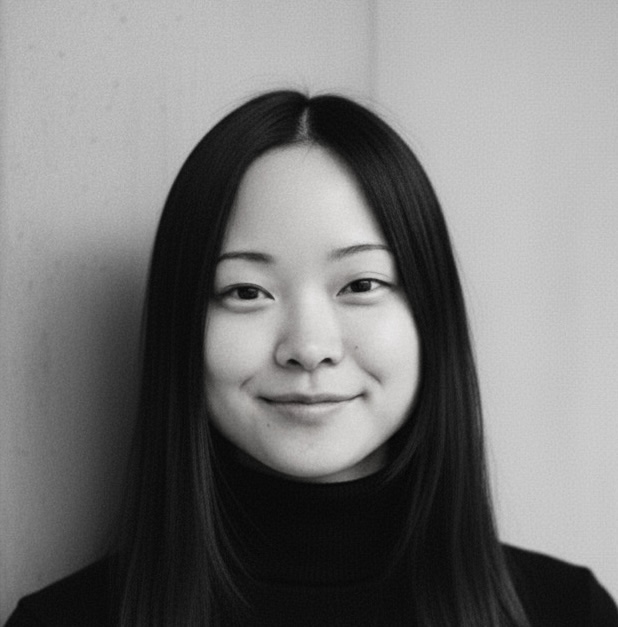
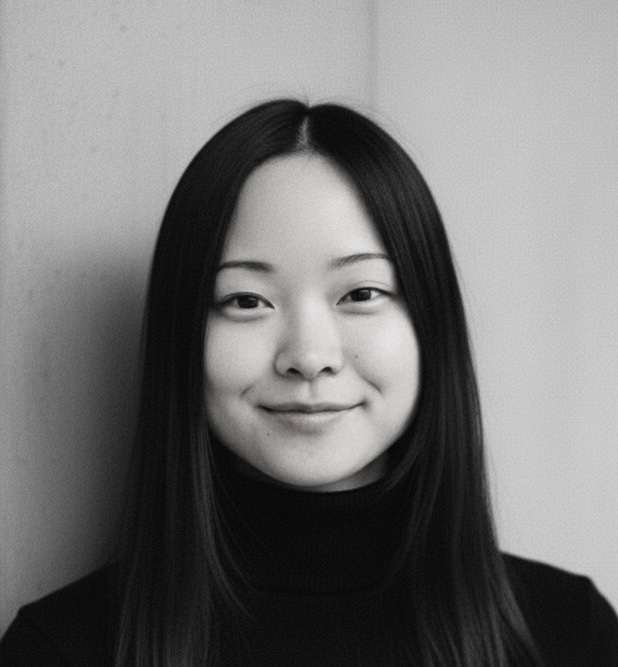
chore: delete unused profile image

diff --git a/src/pages/About.jsx b/src/pages/About.jsx
@@ -1,7 +1,7 @@
 import React from "react";
 import "../styles/About.css";
 import profilePicDesktop from "../assets/images/polaroid.jpg";
-import profilePicMobile from "../assets/images/profilepic2.jpg";
+import profilePicMobile from "../assets/images/profilepic.jpg";
 
 const SkillCard = ({ front, back }) => {
   const [flipped, setFlipped] = React.useState(false);
